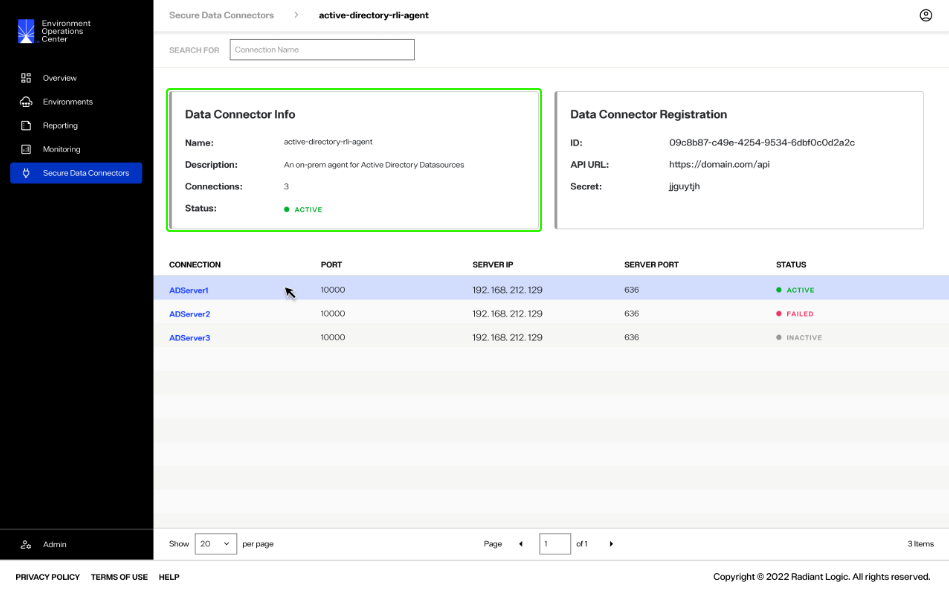
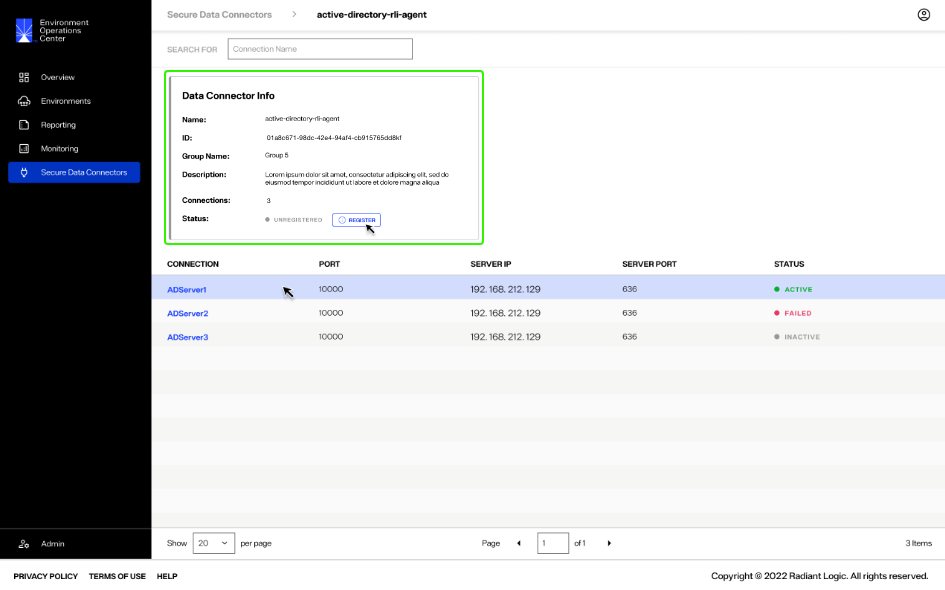
update SDC docs with workflow and UI changes

diff --git a/documentation/cloud-manager-guide/secure-data-connectors/add-data-connector.md b/documentation/cloud-manager-guide/secure-data-connectors/add-data-connector.md
@@ -5,13 +5,21 @@ description: Add a data connector
 ---
 # Add a Data Connector
 
-This guide outlines the steps to add a new secure data connector in Environment Operations Center.
+The process to create a new secure data connector and configure it with data source requires the following high-level steps:
 
-[!info] The steps outlined in this guide assume you have already configured the OPA client to establish the WebSocket tunnel between your on-prem environment and Env Ops Center. For details on how to configure the OPA client, see the [configure an OPA client](...) guide. **(update link when available)**
+- The data connector must be created in Environment Operations Center.
+- A connection must be established between the on-prem or cloud network and the Env Ops Center data connector.
+- The data source must be defined in the FID Control Panel. 
+
+This guide outlines the steps to add a new secure data connector in Environment Operations Center and to establish a connection with the on-prem network.
+
+For details on configuring the application used to establish the connection between the network and data connector, see the [on-prem network configuration](...) guide.
+
+For details on registering data sources in the FID Control Panel, see the [register a data source](...) guide.
 
 ## Getting started
 
-Adding a new data connector in Env Ops Center is broken out into two steps: Creating the data connector by providing its basic information and registering the data connector.
+To establish a connection between Env Ops Center and the on-prem network, a data connector must first be created in Env Ops Center. Then a connection must be established between the Env Ops Center data connector and the on-prem network using the provided token.
 
 To add a new data connector, select **Add New Connector** from the *Secure Data Connectors* home screen.
 
@@ -19,11 +27,15 @@ To add a new data connector, select **Add New Connector** from the *Secure Data 
 
 ## Add data connector info
 
-In the *New Data Connector* dialog, enter the required data connector info in the provided name and a description fields.
+In the *New Data Connector* dialog, enter the data connector information in the provided name, group, and description fields.
 
-> **RL QUESTION: waiting on confirmation re: name and description best practices**
+[!note] Name and Group are required fields and must be entered to create the connector.
 
-![image description](images/add-connector-info.png)
+| Data Connector Info | Description |
+| ------------------- | ----------- |
+| Name | Provide a name that is relevant to the network being connected to. |
+| Group | A minimum of two data connectors should be created per network environment to form a group. Groups provide failover and load balancing for the network. The group field is an editable dropdown, so you can either select an existing group or add a new group. | 
+| Description | The description field is optional but is recommended to provide any details that are relevant about the network. This helps with maintaining data connectors. |
 
 Once you have completed the required fields in the *Data Connector Info* section, select **Save** to add the new connector.
 
@@ -33,40 +45,46 @@ If the data connector is successfully created, it will appear in the list of ava
 
 ![image description](images/add-new-connector.png)
 
-## Data connector registration
+## Establish a network connection
 
-A new data connector needs to be registered for it to become active. The status of a data connector indicates if the connector is "Active" or requires registration. A new connector that has not been registered will have an "Unregistered" status.
+A connection needs to be established between a new data connector and the on-prem or cloud network for the connector to become active. The *Status* of a data connector indicates if the connector is "Active" or "Unregistered".
 
 ![image description](images/add-unregistered.png)
 
-To register a connector, select the connector name to open the connector details.
+### Retrieve registration token
 
-![image description](images/add-select-name.png)
-
-Alternatively, you can also select **View Details** from the **Options** (**...**) dropdown menu to open the connector details.
+To activate a connector, select the connector name to open the connector details. Alternatively, you can also select **View Details** from the **Options** (**...**) dropdown menu to open the connector details.
 
 ![image description](images/add-select-view-details.png)
 
-In the *Data Connector Info** section the connector status will display as "Unregistered", the *Registration* details will display as "null", and there will be no available information for the connections. 
+In the *Data Connector Info* section the connector status will display as "Unregistered" and there will be no available connections. 
 
 Next to the status in the *Data Connector Info* section select **Registration**.
 
 ![image description](images/add-select-registration.png)
 
-This displays the steps and required token to register the data connector. Ensure the on-premise Secure Data Connector has been installed and is running. Register the connector using the provided URL and registration token. Both items can be copied manually, or a copy button is also provided next to each item.
+This displays the steps and required token to establish the connection between the on-prem network and the data connector. Select the **Copy** (![image description](images/copy-icon.png)) icon to copy the registration token.
+
+[!note] Ensure the on-prem Docker container or standalone application have been configured before proceeding with the following steps. For details on configuration, see the [on-prem network configuration](...) guide.
 
 ![image description](images/add-registration-directions.png)
 
-Once you have completed the registration steps, the data connector status will update to "Active".
+### Register the connector on-prem
 
-> **RL QUESTION: confirming details and time for registration/active status**
+Open the command line of the data source to connect with the Env Ops Center secure data connector. Ensure the Docker container or standalone application run command with the token pasted into the appropriate location. Once you run the command it will take a moment for the on-prem network to connect with the data connector in Env Ops Center.
+
+The following example demonstrates a Docker run command. 
+
+![image description](images/add-command-line.png)
+
+Return to the **Secure Data Connectors** home page to confirm that the connection was made between the on-prem network and the data connector in Env Ops Center. If the connection was successfully established, the status of the data connector will update to "Active".
 
 ![image description](images/add-active.png)
 
-The connector details section will now display the registration and connections information for the data connection.
+The connector details section will also display an "Active" status. The data connector is ready to accept data from on-prem data sources. For details on registering data sources in the FID control panel, see the [register a data source](...) guide.
 
 ![image description](images/add-active-details.png)
 
 ## Next steps
 
-You should now have an understanding of the steps to add a secure data connector in Environment Operations Center. For details on managing data connectors, see the [manage data connectors](manage-data-connectors.md) guide.
+You should now have an understanding of the steps to create a secure data connector in Environment Operations Center and establish a connection with an on-prem network. For details on managing data connectors, see the [manage data connectors](manage-data-connectors.md) guide. To learn how to register data sources to begin transferring data to the data connector, see the [register a data source](...) guide.

diff --git a/documentation/cloud-manager-guide/secure-data-connectors/data-connectors-overview.md b/documentation/cloud-manager-guide/secure-data-connectors/data-connectors-overview.md
@@ -5,7 +5,7 @@ description: Secure data connectors overview
 ---
 # Secure Data Connectors Overview
 
-Secure data connectors are used to create secure connections between your RadiantOne on-premise control panels and Environment Operations Center. This allows Env Ops Center to register, configure, and monitor on-prem data connectors. This guide provides an overview of the *Secure Data Connectors* home screen and its features. 
+Secure data connectors allow data to flow from your on premises or private cloud environments to Environment Operations Center. This guide provides an overview of the *Secure Data Connectors* home screen in Env Ops Center and its features. 
 
 ## Getting started 
 
@@ -13,41 +13,35 @@ To navigate to the *Secure Data Connectors* home screen, select **Secure Data Co
 
 ![image description](images/left-nav.png)
 
-## Secure data connector screen
+## Secure data connector home screen
 
 The *Secure Data Connector* home screen provides an overview of all your organization's configured data connectors and allows you to start the workflows to add and manage data connectors.
 
-### New data connector
+All existing data connectors are listed on the home screen including the data connector name, group, description, and status.
+
+![image description](images/connector-info-bar.png)
+
+### Add a new data connector
 
 You can add data connectors from the *Secure Data Connector* tab by selecting the **New Data Connector** button. To learn how to add a data connector, see the [add a data connector](add-data-connector.md) guide.
 
 ![image description](images/new-connector.png)
 
-### Review data connectors
-
-All existing data connectors are listed on the *Secure Data Connector* home screen. The following information is included for each data connector:
-
-> **RL QUESTION: waiting on best practices clarification from RL for the following**
-
-- Data Connector:
-- Description: 
-- Status:
-
-![image description](images/connector-info-bar.png)
+### Manage data connectors
 
 Each data connector has an **Options** (**...**) dropdown menu that allows you to manage the connector. For details on managing data connectors, see the [manage data connectors](manage-data-connectors.md) guide.
 
 ![image description](images/options.png)
 
-## Data connector details
+## View data connector details
 
-A detailed view is available for all data connectors that provides further information including general details, registration, and connection statuses.
+A detailed view is available for each data connector and provides additional data connector information, registration status, and connection statuses.
 
-Data connector details can be accessed in two ways. You can select the data connector name.
+Data connector details can be accessed in two ways. One way is to select the data connector name from the list shown on the Secure Data Connectors screen.
 
 ![image description](images/select-name.png)
 
-Alternatively, you can select **View Details** from the **Options** (**...**) dropdown menu of the corresponding data connector.
+Another way to access data connector details is to select **View Details** from the **Options** (**...**) dropdown menu of the corresponding data connector.
 
 ![image description](images/select-view-details.png)
 
@@ -55,42 +49,32 @@ Alternatively, you can select **View Details** from the **Options** (**...**) dr
 
 The *Data Connector Info* section in the data connector detailed view outlines the following information about the connector:
 
-> **RL QUESTION: waiting on clarification from RL for the following**
-
-- Name:
-- Description:
-- Connections:
-- Status:
+| Data Connector Info | Description |
+| ------------------- | ----------- |
+| Name | The unique name provided for the connector during setup. |
+| ID | A unique ID automatically generated by Env Ops Center during connector setup. |
+| Group Name | The group the connector was assigned to during set up. There are a minimum of two connectors per network environment to enable load balancing.|
+| Description | Additional details about the data connector provided during setup. |
+| Connections | The number of on-prem or cloud backend connections made to the data connector. |
+| Status | Indicates if the data connector is "Active" or "Unregistered". |
 
 ![image description](images/connector-info.png)
 
-### Data connector registration
-
-The *Data Connector Registration* section in the data connector detailed view outlines the following information about the connector:
-
-> **RL QUESTION: waiting on clarification from RL for the following**
-
-- ID:
-- API URL:
-- Secret: 
-
-![image description](images/connector-registration.png)
-
 ### Connection details
 
-All of the connections made to the data connector are listed on the data connector details tab. The information listed for each connection includes:
+All of the on-premise or cloud connections made to the data connector are listed on the data connector details tab. The information listed for each connection includes:
 
-> **RL QUESTION: waiting on clarification from RL for the following**
-
-- Connection:
-- Port:
-- Server IP:
-- Server Port:
-- Status: 
+| Connection details | Description |
+| ------------------ | ----------- |
+| Connection | The name of the on-premise or cloud environment connected to the data connector |
+| Port | The high port where the connection is initiated. |
+| Server IP | The IP of the on-prem or cloud data source that has been connected. |
+| Server Port | The port of the on-prem or cloud data source where the connection was made. |
+| Status | Indicates if the connection "Failed" or is "Active" or "Inactive" |
 
 ![image description](images/connections.png)
 
 ## Next steps
 
-After reading this guide you should be familiar with the features of the *Secure Data Connectors* screen. For details on adding a data connector, see the [add a data connector](add-data-connector.md) guide.
+After reading this guide you should be familiar with the features of the *Secure Data Connectors* screen. For details on adding a data connector in Environment Operations Center, see the [add a data connector](add-data-connector.md) guide.
 

diff --git a/documentation/cloud-manager-guide/secure-data-connectors/manage-data-connectors.md b/documentation/cloud-manager-guide/secure-data-connectors/manage-data-connectors.md
@@ -9,17 +9,17 @@ Secure data connectors can be managed from the *Secure Data Connectors* screen. 
 
 ## Getting started
 
-All of the operations to manage secure data connectors are available in the **Options** (**...**) dropdown for each connector. To begin managing a connector, select the **Options** (**...**) menu of specific connector you wish to modify.
+All of the operations to manage secure data connectors are available in the **Options** (**...**) dropdown for each connector. To begin managing a connector, select the **Options** (**...**) menu of the specific connector you wish to modify.
 
-**image**
+![image description](images/options.png)
 
 ## Edit a data connector
 
-The name and description of a data connector can be updated. To edit connector details, select **Edit** from the associated **Options** (**...**) dropdown.
+The name, group, and description of a data connector can be updated. To edit connector details, select **Edit** from the associated **Options** (**...**) dropdown.
 
 ![image description](images/manage-select-edit.png)
 
-This opens the *Edit Data Connector** dialog. In the provided name and description fields, update the connector details as needed. Select **Save** to update the connector details.
+This opens the *Edit Data Connector** dialog. In the provided name, group, and description fields, update the connector details as needed. Select **Save** to update the connector details.
 
 The connector details will update on the *Secure Data Connectors* home screen and in the connector details section.
 
